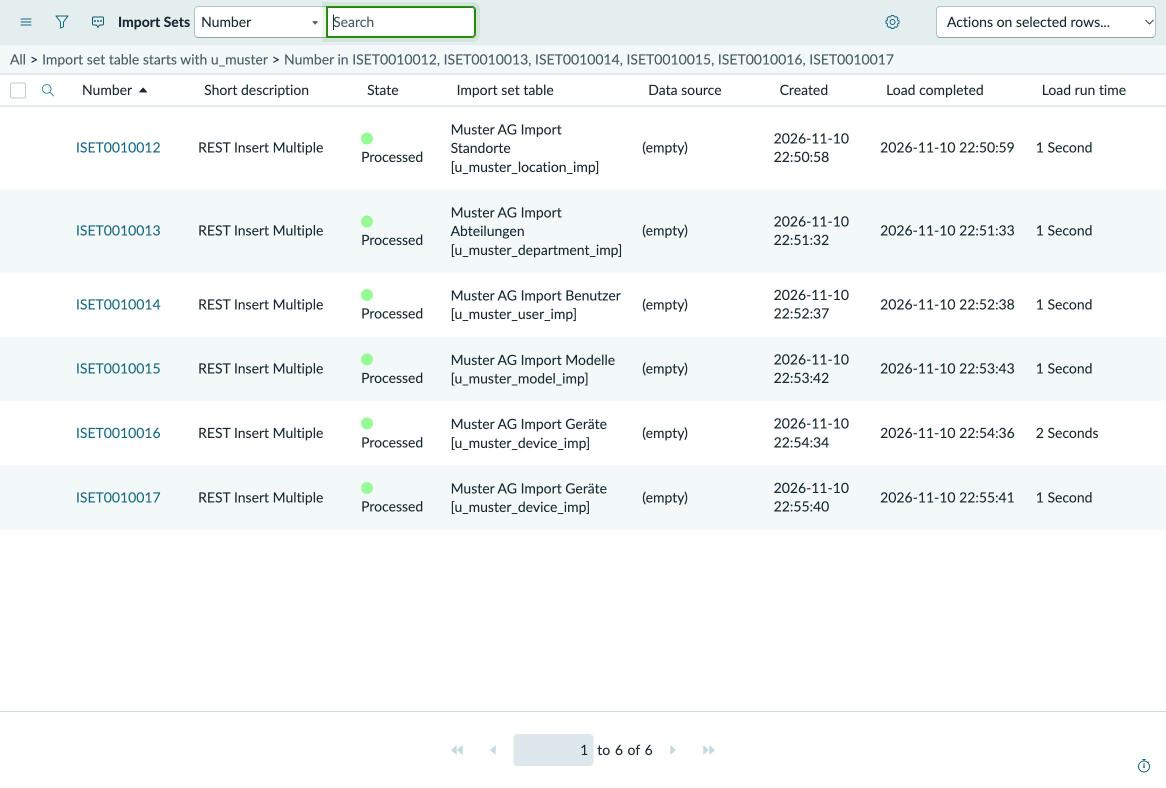
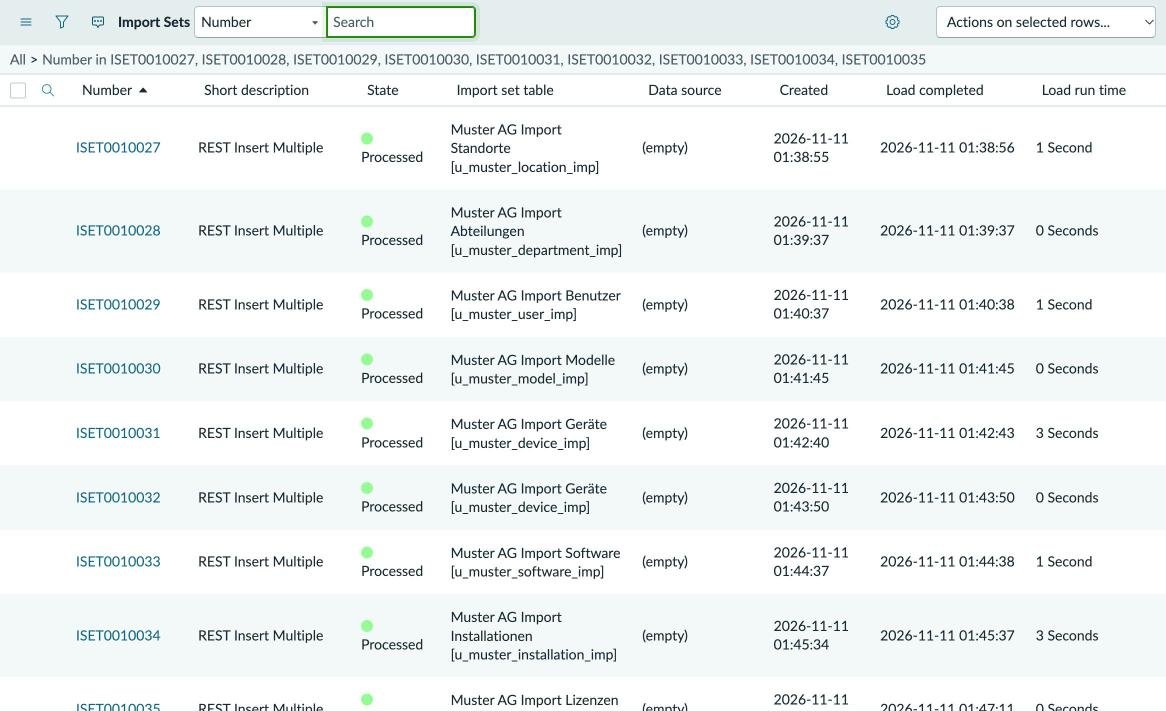
Endlauf von null: 53 von 53 eingebauten Fehlern erkannt
Instanz zurückgesetzt (Auswahl nach Ersteller, gezählt und gesichert,
alle Zählungen 0, Summen genau um 197 Assets und 203 CIs gesunken) und
alles neu geladen. Ergebnis gegen ground_truth.json: 9 von der IRE
zusammengeführt, 41 von den Reports auf der CMDB gefunden, 3 von der
Importprüfung gemeldet (fehlender Standort, zweimal «LENOVO»), die die
Plattform beim Laden stillschweigend bereinigt. Die Importprüfung allein
trifft 21 von 21 Fehlern ihrer Arten, ohne Fehlalarm.
Lizenzposition 9 von 9, Asset-Status gleich CI-Status (136/45/11/5).

diff --git a/README.md b/README.md
@@ -2,7 +2,7 @@
 
 [![CI](https://github.com/itam-automation/servicenow-itam-demo/actions/workflows/ci.yml/badge.svg)](https://github.com/itam-automation/servicenow-itam-demo/actions/workflows/ci.yml)
 
-> **Kurzfassung:** Portfolio-Projekt zu IT Asset Management auf einer persönlichen ServiceNow-Entwicklerinstanz (Release Brazil). Erfundene Testdaten der «Muster AG» (200 Geräte, 130 Benutzer, zwei Datenquellen) laufen über Import Sets mit Transform Maps in die CMDB. Die Identification and Reconciliation Engine (IRE) führt Dubletten aus dem Netzwerk-Scan zusammen. Reports in ServiceNow und ein Python-Check messen die Datenqualität gegen eine bekannte Wahrheit: **50 von 53 eingebauten Fehlern erkannt** (9 Dubletten von der IRE zusammengeführt, 41 von den Reports gefunden); die übrigen 3 hat die Plattform schon beim Laden bereinigt, unerkannt blieb keiner. Ein Catalog Item «Laptop anfordern» mit Flow, Business Rule und ATF-Test weist Lagergeräte zu. Software Asset Management ohne SAM Pro: 582 Installationen und 8 Lizenzen ergeben in ServiceNow eine Lizenzposition je Produkt, **9 von 9 stimmen mit der bekannten Wahrheit überein**. Fragen an diese Daten laufen über eine Werkzeugschicht, die technisch nur lesen kann; 5 Testfragen stimmen mit der bekannten Wahrheit überein, 2 unzulässige Anfragen wurden abgewiesen. Alle Daten sind erfunden.
+> **Kurzfassung:** Portfolio-Projekt zu IT Asset Management auf einer persönlichen ServiceNow-Entwicklerinstanz (Release Brazil). Erfundene Testdaten der «Muster AG» (200 Geräte, 130 Benutzer, zwei Datenquellen) laufen über Import Sets mit Transform Maps in die CMDB. Die Identification and Reconciliation Engine (IRE) führt Dubletten aus dem Netzwerk-Scan zusammen. Reports in ServiceNow und ein Python-Check messen die Datenqualität gegen eine bekannte Wahrheit: **53 von 53 eingebauten Fehlern erkannt** (9 Dubletten von der IRE zusammengeführt, 41 von den Reports auf der CMDB gefunden, 3 von einer Prüfung der Quelldaten beim Import gemeldet, weil die Plattform sie beim Laden stillschweigend bereinigt und die CMDB sie nicht mehr zeigt). Ein Catalog Item «Laptop anfordern» mit Flow, Business Rule und ATF-Test weist Lagergeräte zu. Software Asset Management ohne SAM Pro: 582 Installationen und 8 Lizenzen ergeben in ServiceNow eine Lizenzposition je Produkt, **9 von 9 stimmen mit der bekannten Wahrheit überein**. Fragen an diese Daten laufen über eine Werkzeugschicht, die technisch nur lesen kann; 5 Testfragen stimmen mit der bekannten Wahrheit überein, 2 unzulässige Anfragen wurden abgewiesen. Alle Daten sind erfunden.
 
 ## Status
 
@@ -34,7 +34,7 @@ In IT Asset Management the CMDB is fed by several sources: an inventory export, 
 | 1 | Generate test data with **known, injected errors** (ground truth) | `testdata/generate_testdata.py` |
 | 2 | Load master data and devices through **Import Sets with Transform Maps** (Import Set API, one import set per file) | `loader/load_testdata.py`, `loader/staging.py` |
 | 3 | Route every device row through the **IRE** in an onBefore transform script; normalize serial numbers; a reconciliation rule makes the inventory authoritative for organisational attributes | `servicenow/device_transform_onbefore.js` |
-| 4 | Measure **data quality** in ServiceNow (10 reports) and against the ground truth (Python check, result as a number) | `loader/check_data_quality.py`, `docs/data_quality.md` |
+| 4 | Measure **data quality** in ServiceNow (reports on the CMDB, plus an **import check** on the source data before load) and against the ground truth (Python check, result as a number) | `servicenow/device_transform_onbefore.js`, `loader/check_data_quality.py`, `docs/data_quality.md` |
 | 5 | Reset the instance safely (select by creator, count first, verify totals) | `loader/reset_testdata.py` |
 | 6 | Request a laptop in the **Service Catalog**: approval by the asset management group, an in-stock device of the requested model is assigned, a fulfilment task is created (or a procurement task if nothing is in stock); a **business rule** keeps the asset lifecycle consistent; an **ATF test** checks it | Flow Designer, `servicenow/business_rule_asset_lifecycle.js`, `servicenow/atf_lifecycle_test.js` |
 | 7 | **Software asset management** without SAM Pro: software models and packages (normalization), installations, licenses; a script include calculates the **license position** per product, a check compares it with the ground truth | `servicenow/license_position.js`, `loader/check_license_position.py` |
@@ -51,6 +51,7 @@ flowchart LR
   IRE --> CMDB[("CMDB<br/>cmdb_ci_hardware")]
   CMDB -->|"async job"| A["Assets<br/>alm_hardware"]
   CMDB --> R["Reports<br/>ITAM DQ 1-7, KPIs"]
+  S -->|"import check<br/>u_dq_findings"| R8["Report<br/>ITAM DQ 8"]
   Q["Data quality check<br/>Python"] -->|"Table API, read only"| CMDB
   Q --> D["docs/data_quality.md"]
   L -->|"Import Set API"| SW[("Software models, packages,<br/>installations, licenses")]
@@ -65,16 +66,25 @@ The loader uses a dedicated integration user (`svc_itam_loader`, machine identit
 
 ## Results
 
-Final run on 11 Nov 2026, starting from an instance without any Muster AG data:
+Final run on 11 Nov 2026, starting from an instance without any Muster AG data (reset with `loader/reset_testdata.py`: selection by creator, counted and backed up first, all counts 0 afterwards, totals down by exactly 197 assets and 203 CIs):
 
-**50 of 53 injected data quality issues detected**: 9 scan duplicates merged by the IRE, 41 issues found by the reports. The remaining 3 were already resolved by the platform on load (location taken over from the assigned user; «LENOVO» matched to the existing «Lenovo»). None went undetected. Per-issue details: [`docs/data_quality.md`](docs/data_quality.md).
+**53 of 53 injected data quality issues detected**: 9 scan duplicates merged by the IRE, 41 issues found by the reports on the CMDB, 3 reported by the import check on the source data. None went undetected. Per-issue details: [`docs/data_quality.md`](docs/data_quality.md).
+
+The last 3 are the ones the platform corrects silently on load, so the CMDB cannot show them any more: a laptop without a location in the inventory export (ServiceNow takes the location over from the assigned user) and two devices with the manufacturer «LENOVO» (the database matches «Lenovo» regardless of case). In the previous run they counted as «resolved by the platform», not as detected. Now the onBefore transform script checks every row before it goes to the IRE and writes its findings into the import set row (column `u_dq_findings`, report «ITAM DQ 8»), with two general rules that do not know the injected issues:
+
+- **location missing** in the inventory export (the inventory is the authoritative source for the location);
+- **manufacturer differs from the model's manufacturer** in the master data, compared exactly («LENOVO» is not «Lenovo»).
+
+On their own, these two rules flag 21 of the 21 injected issues of the two types and nothing else; the reports on the CMDB already find 18 of them, the import check adds the 3 the CMDB no longer shows.
 
 | | |
 |---|---|
-| Import | 6 import sets, 392 rows, 0 errors: 5 locations, 9 departments, 130 users, 36 models, 200 + 12 devices ([`docs/import_run.md`](docs/import_run.md)) |
+| Import | 9 import sets, 0 errors: 5 locations, 9 departments, 130 users, 36 models, 200 + 12 devices, 22 software models, 582 installations, 8 licenses ([`docs/import_run.md`](docs/import_run.md)) |
+| Import check | 21 source rows with a finding: 6 × location missing, 15 × manufacturer differs from the model |
 | IRE, inventory export | 200 CIs created |
 | IRE, network scan | 12 rows: 9 merged into existing CIs (6 via serial number + MAC, 3 via name + MAC), 3 created as separate CIs because name and MAC contradict the matching serial number; all 3 are listed by report «ITAM DQ 7» |
-| CMDB | 203 CIs of Muster AG; 197 hardware assets created automatically from them (the 6 firewalls have no asset class) |
+| CMDB | 203 CIs of Muster AG; 197 hardware assets created automatically from them (the 6 firewalls have no asset class), with the lifecycle status of their CI thanks to the business rule (136 in use, 45 retired, 11 in stock, 5 in maintenance), no fix script needed |
+| License position | 9 of 9 products equal to the ground truth ([`docs/license_position.md`](docs/license_position.md)) |
 | KPIs (in use) | warranty ending in 2027: 22, warranty expired: 56, still on Windows 10: 3; all equal to the ground truth |
 
 | Import sets of the final run | Transform maps |
@@ -82,8 +92,8 @@ Final run on 11 Nov 2026, starting from an instance without any Muster AG data:
 | ![Import sets](docs/screenshots/01_import_sets_final_run.jpg) | ![Transform maps](docs/screenshots/02_transform_maps.jpg) |
 | **onBefore script calling the IRE** | **Report «ITAM DQ 7»: scan-only CIs (duplicate candidates)** |
 | ![Transform script](docs/screenshots/03_transform_script_ire.jpg) | ![Report DQ 7](docs/screenshots/04_report_scan_only_duplicates.jpg) |
-| **CMDB grouped by manufacturer: spelling variants** | |
-| ![Manufacturer variants](docs/screenshots/05_cmdb_manufacturer_variants.jpg) | |
+| **CMDB grouped by manufacturer: spelling variants** | **Import check «ITAM DQ 8» (excerpt): location missing and Lenovo variants in the source** |
+| ![Manufacturer variants](docs/screenshots/05_cmdb_manufacturer_variants.jpg) | ![Import check](docs/screenshots/09_import_check_findings.jpg) |
 
 ## Laptop request (milestone 2)
 
@@ -95,11 +105,11 @@ Catalog item **«Laptop anfordern»** (variables: requested for, model, justific
 4. If found: set the asset to *In use* and assign it to the requester, create the task «Laptop aus dem Lager vorbereiten und übergeben»
 5. Otherwise: create the task «Laptop nicht auf Lager: Modell beschaffen»
 
-Business rule **«ITAM: Lifecycle-Status Hardware-Asset»** (`alm_hardware`, before insert/update) adds what the platform rules do not cover: a new asset takes over the lifecycle status of its CI, and an asset that goes into use gets its assignment date. A one-time fix script aligned the 61 existing assets.
+Business rule **«ITAM: Lifecycle-Status Hardware-Asset»** (`alm_hardware`, before insert/update) adds what the platform rules do not cover: a new asset takes over the lifecycle status of its CI, and an asset that goes into use gets its assignment date. A one-time fix script aligned the 61 assets that existed before the rule; in the final run from zero all 197 assets got the status of their CI directly.
 
 ATF test **«ITAM: Lifecycle-Status Hardware-Asset»**: 4 Jasmine specs, 9/9 assertions passed, changes rolled back automatically.
 
-End-to-end run: request REQ0010002 for a ThinkPad X1 Carbon Gen 11 was approved; asset MA-000007 moved from *In stock* to *In use*, assigned to the requester with assignment date, the linked CI followed (*Installed*), task SCTASK0010002 was created for the asset management group.
+End-to-end run: request REQ0010002 for a ThinkPad X1 Carbon Gen 11 was approved; asset MA-000007 moved from *In stock* to *In use*, assigned to the requester with assignment date, the linked CI followed (*Installed*), task SCTASK0010002 was created for the asset management group. (The final run from zero afterwards reloaded the test data, so MA-000007 is back in stock.)
 
 | Flow «Laptop anfordern» | ATF test result |
 |---|---|
@@ -164,11 +174,12 @@ Things the run made visible, each verified on the instance:
 - **A matching serial number is not enough when name and MAC contradict it.** Three scan records carried the serial number in another spelling (lowercase, trailing space), an FQDN name and the MAC of a second network card. The transform script normalizes serials, so they are identical afterwards, yet the IRE still created separate CIs for them; in dry runs a payload with the serial number alone did match. 9 of 12 scan duplicates were merged, the other 3 are caught by report «ITAM DQ 7». The lesson: clean, consistent identifiers per source matter more than extra matching logic.
 - **Reconciliation rules protect attributes.** The network scan reports FQDN host names. A reconciliation rule makes the inventory export authoritative for name, user, location and other organisational attributes, so a scan update does not overwrite them.
 - **Assets are created from CIs automatically**, asynchronously by the job «Asset – Create asset delayed sync» (every 15 minutes), based on the model category. The 6 firewalls have no model category with an asset class, so 203 CIs became 197 assets. Deleting an asset deletes its CI as well.
-- **Assets created from CIs always start as *In use*.** 61 of 197 assets therefore contradicted their CI (in stock, retired, in maintenance), and the laptop request found nothing in stock. The business rule now takes the status over from the CI; a fix script corrected the existing assets without touching the CIs.
+- **Assets created from CIs always start as *In use*.** 61 of 197 assets therefore contradicted their CI (in stock, retired, in maintenance), and the laptop request found nothing in stock. The business rule now takes the status over from the CI; a fix script corrected the existing assets without touching the CIs. In the final run from zero the asset statuses match the CIs exactly (136 / 45 / 11 / 5).
 - **The platform clears the assignee of an asset in stock** (rule «Clear Assigned To on update»). Assigning a stock device means setting *In use* and the user in the same update, which is what the flow does. The ATF test documents this behaviour.
 - **ATF execution is disabled by default** on a developer instance (`sn_atf.runner.enabled`).
-- **Company names match case-insensitively.** The variant «LENOVO» was matched to the existing «Lenovo» on load, so it never became a data quality issue.
-- **The platform fills a missing location from the assigned user.**
+- **Company names match case-insensitively.** The variant «LENOVO» is matched to the existing «Lenovo» on load, so it never shows up in the CMDB. Only an exact comparison in the import check reports it.
+- **The platform fills a missing location from the assigned user.** Convenient, but it hides a gap in the source; the import check reports it before it disappears.
+- **Import set rows are temporary.** The import check writes into the import set rows, which the platform's cleanup job deletes after a few days by default. For lasting evidence the findings would go into a table of their own (see production notes); here `docs/data_quality.md` and `docs/import_run.md` keep the result.
 - **Hardware Asset Management (sn_hamp) is not available on a developer instance**, and Software Asset Management Professional is not active (its plugins are inactive, `samp_*` tables missing). This project therefore works with the base CMDB, asset and license tables.
 - **The license type of a software model is a reference** (`cmdb_sw_license_calculation`: *Per named user*, *Per workstation*, ...), and the integration user may not read it. The license position is therefore calculated on the platform and exposed through a read-only Scripted REST API instead of widening the integration user's rights.
 - **Column types must be given by name.** Columns created through the Table API with the `sys_glide_object` sys_id as type were silently created as strings: numbers were stored as «20.0» and sorted as text. Fixed by recreating the three integer columns with type `integer` (and setting the staging columns to `string`).
@@ -213,6 +224,7 @@ tests/        pytest suite (generator, staging definitions, scripts, license pos
 - **Normalization:** Hardware and software normalization (HAM/SAM Pro) instead of tolerating manufacturer variants; a lookup of canonical names before load.
 - **Reconciliation per source and attribute**, plus staleness rules, so the most trustworthy source wins per field.
 - **CMDB Health** (completeness, correctness, compliance) and de-duplication tasks instead of hand-made reports.
+- **Source data checks with lasting evidence:** findings of the import check in a log table of their own (row, rule, value, date) instead of the temporary import set rows, with a notification to the owner of the source.
 - **Least privilege and secrets:** one integration user per interface, OAuth instead of basic auth, secrets in a vault.
 - **Change management for configuration:** scoped app or update sets in source control, ATF tests, promotion via pipeline.
 - **Operations:** scheduled imports, alerting on transform errors, cleanup job for old import sets.

diff --git a/docs/data_quality.md b/docs/data_quality.md
@@ -2,28 +2,30 @@
 
 Generated 2026-11-11 by `python3 loader/check_data_quality.py` against the personal developer instance: 203 CIs of Muster AG. The test data generator injected 53 issues on purpose (`testdata/output/ground_truth.json`); this check classifies how each one was caught.
 
-**50 of 53 injected data quality issues detected** (9 merged by the IRE, 41 found by the reports); 3 were already resolved by the platform on load, 0 not detected.
+**53 of 53 injected data quality issues detected** (9 merged by the IRE, 41 found by the reports on the CMDB, 3 reported by the import check on the source data); 0 resolved by the platform without a report, 0 not detected.
 
-| Issue type | injected | IRE | Report | Platform | not detected |
-|---|---:|---:|---:|---:|---:|
-| Missing serial number | 8 | 0 | 8 | 0 | 0 |
-| Missing location | 6 | 0 | 5 | 1 | 0 |
-| Manufacturer name variant (e.g. «DELL») | 15 | 0 | 13 | 2 | 0 |
-| Endpoint in use without assigned user | 5 | 0 | 5 | 0 | 0 |
-| Retired endpoint still assigned | 3 | 0 | 3 | 0 | 0 |
-| In use by an inactive user (leaver) | 4 | 0 | 4 | 0 | 0 |
-| Duplicate from scan: same serial, FQDN name | 6 | 6 | 0 | 0 | 0 |
-| Duplicate from scan: serial in other spelling, other MAC | 3 | 0 | 3 | 0 | 0 |
-| Duplicate from scan: same name, no serial | 3 | 3 | 0 | 0 | 0 |
+| Issue type | injected | IRE | Report | Import check | Platform | not detected |
+|---|---:|---:|---:|---:|---:|---:|
+| Missing serial number | 8 | 0 | 8 | 0 | 0 | 0 |
+| Missing location | 6 | 0 | 5 | 1 | 0 | 0 |
+| Manufacturer name variant (e.g. «DELL») | 15 | 0 | 13 | 2 | 0 | 0 |
+| Endpoint in use without assigned user | 5 | 0 | 5 | 0 | 0 | 0 |
+| Retired endpoint still assigned | 3 | 0 | 3 | 0 | 0 | 0 |
+| In use by an inactive user (leaver) | 4 | 0 | 4 | 0 | 0 | 0 |
+| Duplicate from scan: same serial, FQDN name | 6 | 6 | 0 | 0 | 0 | 0 |
+| Duplicate from scan: serial in other spelling, other MAC | 3 | 0 | 3 | 0 | 0 | 0 |
+| Duplicate from scan: same name, no serial | 3 | 3 | 0 | 0 | 0 | 0 |
 
 Details:
 
-- NBZH0063 (Missing location): Platform, location taken over from the assigned user
-- NBLU0005 (Manufacturer name variant (e.g. «DELL»)): Platform, «LENOVO» differs only in case, matched to existing «Lenovo» on load
-- PCBS0006 (Manufacturer name variant (e.g. «DELL»)): Platform, «LENOVO» differs only in case, matched to existing «Lenovo» on load
+- NBZH0063 (Missing location): Import check, corrected by the platform on load (location taken over from the assigned user), reported by the import check as location_missing
+- NBLU0005 (Manufacturer name variant (e.g. «DELL»)): Import check, corrected by the platform on load («LENOVO» differs only in case, matched to existing «Lenovo» on load), reported by the import check as manufacturer_mismatch
+- PCBS0006 (Manufacturer name variant (e.g. «DELL»)): Import check, corrected by the platform on load («LENOVO» differs only in case, matched to existing «Lenovo» on load), reported by the import check as manufacturer_mismatch
 - nbzh0009.muster.example (Duplicate from scan: serial in other spelling, other MAC): Report, separate CI, found by duplicate check
 - srvzhdb01.muster.example (Duplicate from scan: serial in other spelling, other MAC): Report, separate CI, found by duplicate check
 - pczh0014.muster.example (Duplicate from scan: serial in other spelling, other MAC): Report, separate CI, found by duplicate check
+
+The import check (rules «location missing in the inventory export» and «manufacturer differs from the model master data») flags 21 of the 21 injected issues of these two types on its own; the reports on the CMDB find 18 of them, the import check adds the ones the CMDB no longer shows.
 
 | KPI | expected | in ServiceNow |
 |---|---:|---:|

diff --git a/docs/assistant_questions.md b/docs/assistant_questions.md
@@ -1,11 +1,11 @@
 # Questions to the read-only assistant tools
 
-Run on 2026-11-11 against the instance. Claude (in Claude Code) chose the tools and wrote the answers; every request went through the read-only tool layer (`python3 assistant/assistant.py --use-loader-user --tool ...`): GET only, Muster AG only, fields on the allow list. No separate agent and no API key were used. Each answer is checked against `testdata/output/ground_truth.json` or the known state after milestone 2.
+Run on 2026-11-11 against the instance, repeated after the final run from zero (data reloaded). Claude (in Claude Code) chose the tools and wrote the answers; every request went through the read-only tool layer (`python3 assistant/assistant.py --use-loader-user --tool ...`): GET only, Muster AG only, fields on the allow list. No separate agent and no API key were used. Each answer is checked against `testdata/output/ground_truth.json` or the known state after milestone 2.
 
 | # | Question | Tool call | Answer | Check |
 |---|---|---|---|---|
 | 1 | Where are we under-licensed? | `get_license_position` | Acrobat Pro -4, Visio Plan 2 -2, PyCharm Professional -1; WinRAR is installed on 10 devices without any license | 9 of 9 positions equal the ground truth |
-| 2 | Which laptops are in stock? | `search_records` on `alm_hardware`, `install_status=6^ORDERBYmodel.name` | 9 devices in stock in Zürich, 5 of them laptops: MacBook Pro 14 (M3), ThinkPad T14 Gen 3 (2), ThinkPad T14 Gen 5, ThinkPad X1 Carbon Gen 11; the other 4 are desktops | 11 in stock in the test data, minus the 2 assigned by the laptop request flow (MA-000007, MA-000096) |
+| 2 | Which laptops are in stock? | `search_records` on `alm_hardware`, `install_status=6^ORDERBYmodel.name` | 11 devices in stock in Zürich, 7 of them laptops: MacBook Pro 14 (M3), MacBook Pro 14 (M4), ThinkPad T14 Gen 3 (2), ThinkPad T14 Gen 5, ThinkPad X1 Carbon Gen 11 (2); the other 4 are desktops | 11 in stock in the test data, 7 of them laptops (before the final run it was 9, after two laptops had been assigned by the laptop request flow) |
 | 3 | How many devices in use have an expired warranty? | `count_records` on `cmdb_ci_hardware`, `install_statusIN1,3^warranty_expiration<2026-11-11` | 56 | ground truth: 56 |
 | 4 | Who is still on Windows 10? | `search_records` on `cmdb_ci_computer`, `install_statusIN1,3^osLIKEWindows 10` | 3 devices: PCBS0001 and PCBS0002 (Basel), NBZH0021 (Zürich) | ground truth: 3 |
 | 5 | Which retired devices are still assigned to someone? | `search_records` on `cmdb_ci_hardware`, `install_status=7^assigned_toISNOTEMPTY` | NBZH0043, MOBZH0003, MOBZH0004 | exactly the 3 injected issues «retired_with_user» |

diff --git a/docs/import_run.md b/docs/import_run.md
@@ -4,12 +4,20 @@ Full run on 2026-11-11 via the Import Set API (`insertMultiple`), one import set
 
 | Import set | Staging table | Target | Rows | Result |
 |---|---|---|---:|---|
-| ISET0010012 | `u_muster_location_imp` | cmn_location | 5 | 5 inserted |
-| ISET0010013 | `u_muster_department_imp` | cmn_department | 9 | 9 inserted |
-| ISET0010014 | `u_muster_user_imp` | sys_user | 130 | 130 inserted |
-| ISET0010015 | `u_muster_model_imp` | cmdb_hardware_product_model | 36 | 36 inserted |
-| ISET0010016 | `u_muster_device_imp` | IRE (Inventar-Export) | 200 | 200 INSERT |
-| ISET0010017 | `u_muster_device_imp` | IRE (Netzwerk-Scan) | 12 | 3 INSERT, 9 UPDATE |
+| ISET0010027 | `u_muster_location_imp` | cmn_location | 5 | 5 inserted |
+| ISET0010028 | `u_muster_department_imp` | cmn_department | 9 | 9 inserted |
+| ISET0010029 | `u_muster_user_imp` | sys_user | 130 | 130 inserted |
+| ISET0010030 | `u_muster_model_imp` | cmdb_hardware_product_model | 36 | 36 inserted |
+| ISET0010031 | `u_muster_device_imp` | IRE (Inventar-Export) | 200 | 200 INSERT |
+| ISET0010032 | `u_muster_device_imp` | IRE (Netzwerk-Scan) | 12 | 3 INSERT, 9 UPDATE |
+| ISET0010033 | `u_muster_software_imp` | cmdb_software_product_model | 22 | 22 inserted |
+| ISET0010034 | `u_muster_installation_imp` | cmdb_software_instance | 582 | 582 inserted |
+| ISET0010035 | `u_muster_license_imp` | alm_license | 8 | 8 inserted |
+
+Import check on the source data (column `u_dq_findings`, report «ITAM DQ 8»):
+
+- location_missing: 6 rows
+- manufacturer_mismatch: 15 rows
 
 Duplicates from the network scan (compared with `ground_truth.json`):
 

diff --git a/servicenow/README.md b/servicenow/README.md
@@ -36,6 +36,15 @@ Milestone 3 (software asset management), captured in the update set **«ITAM Dem
 | Scripted REST API «ITAM Demo» | `sys_ws_definition`, `sys_ws_operation` | `GET /license_position`, [`rest_license_position.js`](rest_license_position.js); requires authentication and the default REST ACL; the base path contains the instance's namespace and is configured in `.env` (`SN_ITAM_API`) |
 | Column types of the staging tables | `sys_dictionary` | set to `string` by name (they had been created with the type's sys_id) |
 
+Import check on the source data, captured in the update set **«ITAM Demo - DQ Importprüfung»** (not exported as XML yet):
+
+| Item | Table | Details |
+|---|---|---|
+| Column `u_dq_findings` | `sys_dictionary` on `u_muster_device_imp` | findings of the import check per row |
+| onBefore script of «Muster AG Geräte -> CMDB (IRE)» | `sys_transform_script` | [`device_transform_onbefore.js`](device_transform_onbefore.js): rules «location missing in the inventory export» and «manufacturer differs from the model» |
+| Report «ITAM DQ 8 - Quelldaten-Befunde beim Import» | `sys_report` | list of import set rows with a finding |
+| List layout | `sys_ui_list` on `u_muster_device_imp` | source ID, name, source, manufacturer, model, location, findings (set on the instance; not captured by the update set, which holds 4 updates) |
+
 The staging tables and transform maps are generated from one definition, [`loader/staging.py`](../loader/staging.py) (`python3 loader/staging.py` prints the full specification including the scripts).
 
 ## Update sets as XML

diff --git a/docs/license_position.md b/docs/license_position.md
@@ -10,7 +10,7 @@ Check on 2026-11-11 with `python3 loader/check_license_position.py` (read only).
 | Software packages in use (raw name + version) | 26 |
 | Licensed or license-relevant software models | 9 |
 | Licenses (`alm_license`) | 8 |
-| Position calculated in ServiceNow | matches (calculated 2026-11-11 08:22:31 UTC) |
+| Position calculated in ServiceNow | matches (calculated 2026-11-11 09:47:31 UTC) |
 
 | Product | Publisher | Metric | Rights | Usage | Difference | Status |
 |---|---|---|---:|---:|---:|---|
